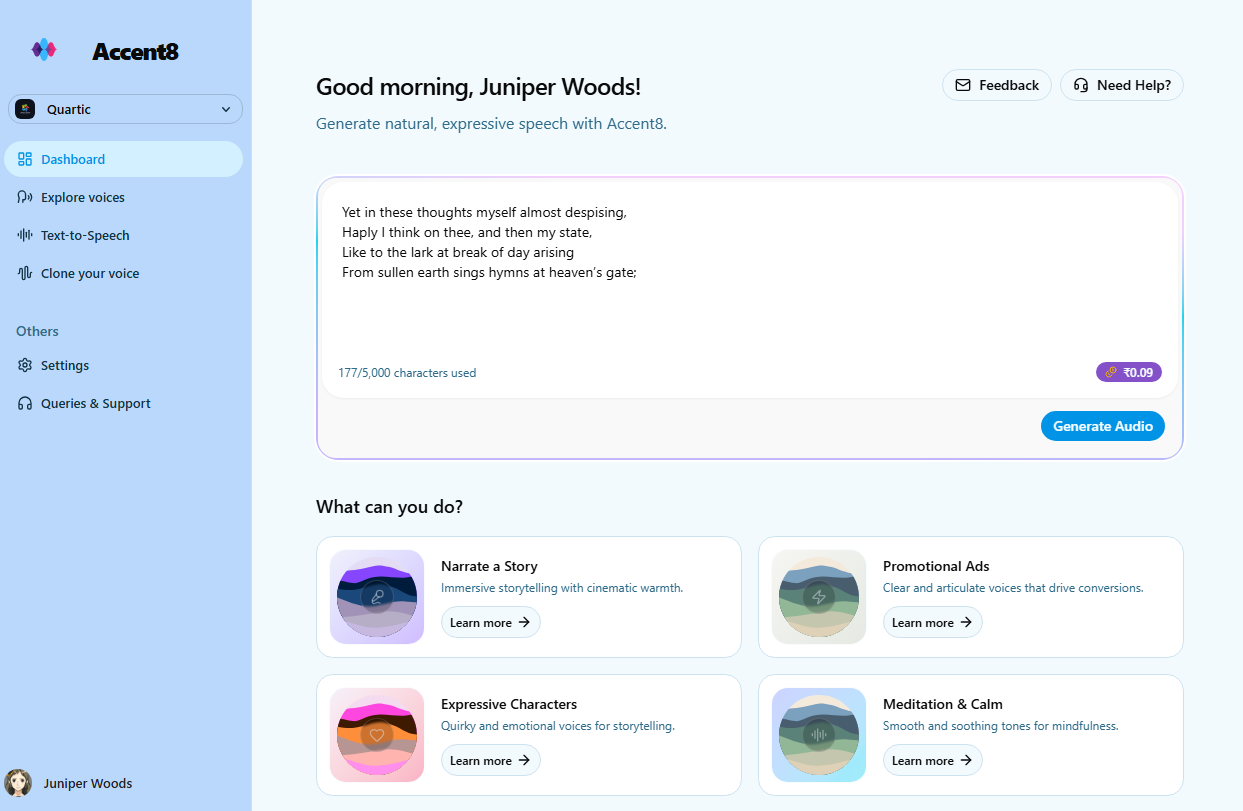
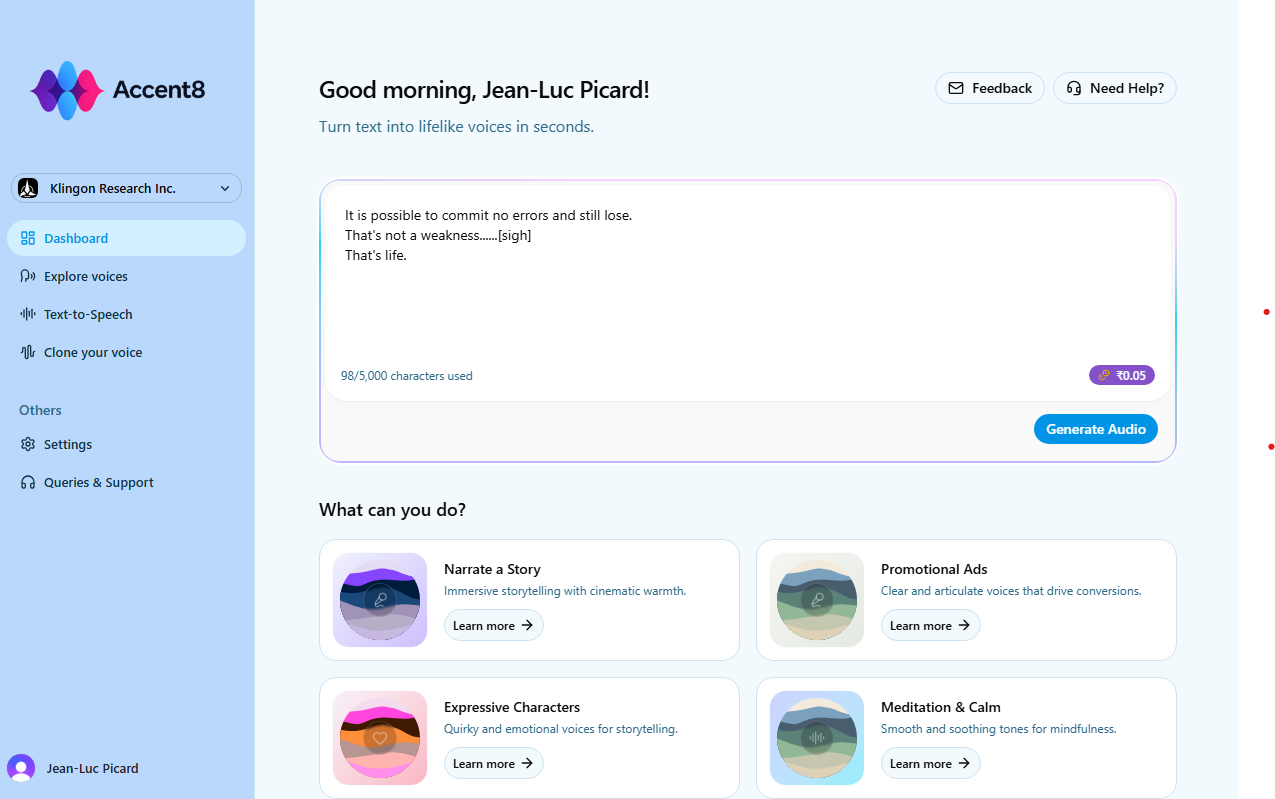
minor bugfixes-I

diff --git a/src/app/page.tsx b/src/app/page.tsx
@@ -1,9 +1,9 @@
 "use client";
 
-import { useRef } from "react";
+import { useRef, useState } from "react";
 import { motion, useMotionTemplate, useScroll, useTransform } from "framer-motion";
 import Link from "next/link";
-import { ArrowRight, Sparkles, MapPin, Check, X, AudioLines } from "lucide-react";
+import { ArrowRight, Sparkles, MapPin, Check, X, AudioLines, Menu, X as CloseIcon } from "lucide-react";
 import { Marquee } from "@/components/landing/marquee";
 import { BouncyCardsFeatures } from "@/components/landing/bouncy-cards-features";
 import { WavyBackground } from "@/components/landing/wavy-background";
@@ -12,30 +12,129 @@ import VoiceLab from "@/modules/landing-showcase/VoiceLab";
 import { MacbookScroll } from "@/components/ui/macbook-scroll";
 
 export default function LandingPage() {
+  const [isMenuOpen, setIsMenuOpen] = useState(false);
+
+  const closeMenu = () => setIsMenuOpen(false);
+
   return (
     <div className="min-h-screen bg-[#FAFAFA] text-slate-900 font-sans selection:bg-slate-200">
       {/* HEADER */}
       <header className="fixed top-0 left-0 right-0 z-50 bg-white/80 backdrop-blur-md border-b border-slate-200/80 shadow-sm transition-all">
         <div className="container mx-auto px-6 h-16 flex items-center justify-between">
-          <div className="flex items-center gap-3">
-            <div className="w-8 h-8 rounded-lg overflow-hidden border border-slate-200 bg-white shadow-sm">
-              <img
-                src="/Accent8-wbg.png"
-                alt="Accent8 logo"
-                className="h-full w-full object-contain"
-              />
-            </div>
-            <span className="font-bold text-xl tracking-tight">Accent8</span>
+          
+          {/* Left: Logo */}
+          <div className="flex items-center gap-3 flex-1">
+            <img
+              src="/logo/accent8-text-logo.png"
+              alt="Accent8 logo"
+              className="w-36 h-36 object-contain translate-y-px"
+            />
           </div>
-          <nav className="flex items-center gap-4 text-sm font-medium">
+
+          {/* Center: Navigation Links - Desktop Only */}
+          <nav className="hidden md:flex items-center justify-center gap-2 md:gap-8 text-sm font-medium">
+            <a href="#features" className="text-slate-600 hover:text-slate-900 transition-colors">
+              Features
+            </a>
+            <a href="#dashboard" className="text-slate-600 hover:text-slate-900 transition-colors">
+              Labs
+            </a>
+            <a href="#billing" className="text-slate-600 hover:text-slate-900 transition-colors">
+              Billing
+            </a>
+            <a href="#testimonials" className="text-slate-600 hover:text-slate-900 transition-colors">
+              Testimonials
+            </a>
+            <a href="#testimonials" className="text-slate-600 hover:text-slate-900 transition-colors">
+              Beta✦ 
+            </a>
+          </nav>
+
+          {/* Right: Auth Buttons - Desktop Only */}
+          <div className="hidden md:flex items-center justify-end gap-4 text-sm font-medium flex-1">
             <Link href="/sign-in" className="text-slate-600 hover:text-slate-900 transition-colors">
               Log in
             </Link>
             <Link href="/sign-up" className="px-4 py-2 bg-slate-900 text-white rounded-full hover:bg-slate-800 transition-colors">
               Sign up
             </Link>
-          </nav>
+          </div>
+
+          {/* Mobile Menu Button */}
+          <button
+            onClick={() => setIsMenuOpen(!isMenuOpen)}
+            className="md:hidden flex items-center justify-center w-10 h-10 rounded-lg hover:bg-slate-100 transition-colors"
+            aria-label="Toggle menu"
+          >
+            {isMenuOpen ? (
+              <CloseIcon className="w-6 h-6 text-slate-900" />
+            ) : (
+              <Menu className="w-6 h-6 text-slate-900" />
+            )}
+          </button>
         </div>
+
+        {/* Mobile Navigation Menu */}
+        <motion.div
+          initial={{ opacity: 0, height: 0 }}
+          animate={{ opacity: isMenuOpen ? 1 : 0, height: isMenuOpen ? "auto" : 0 }}
+          transition={{ duration: 0.3 }}
+          className="md:hidden overflow-hidden border-t border-slate-200/80"
+        >
+          <nav className="flex flex-col gap-4 px-6 py-4 bg-white/50 backdrop-blur-md">
+            <a
+              href="#features"
+              onClick={closeMenu}
+              className="text-slate-600 hover:text-slate-900 transition-colors py-2 font-medium"
+            >
+              Features
+            </a>
+            <a
+              href="#dashboard"
+              onClick={closeMenu}
+              className="text-slate-600 hover:text-slate-900 transition-colors py-2 font-medium"
+            >
+              Experimental
+            </a>
+            <a
+              href="#billing"
+              onClick={closeMenu}
+              className="text-slate-600 hover:text-slate-900 transition-colors py-2 font-medium"
+            >
+              Billing
+            </a>
+            <a
+              href="#testimonials"
+              onClick={closeMenu}
+              className="text-slate-600 hover:text-slate-900 transition-colors py-2 font-medium"
+            >
+              Testimonials
+            </a>
+            <a
+              href="#testimonials"
+              onClick={closeMenu}
+              className="text-slate-600 hover:text-slate-900 transition-colors py-2 font-medium"
+            >
+              Beta Access✦
+            </a>
+            <div className="border-t border-slate-200/80 pt-4 mt-2 flex flex-col gap-3">
+              <Link
+                href="/sign-in"
+                onClick={closeMenu}
+                className="text-slate-600 hover:text-slate-900 transition-colors py-2 font-medium"
+              >
+                Log in
+              </Link>
+              <Link
+                href="/sign-up"
+                onClick={closeMenu}
+                className="px-4 py-2 bg-slate-900 text-white rounded-full hover:bg-slate-800 transition-colors text-center font-medium"
+              >
+                Sign up
+              </Link>
+            </div>
+          </nav>
+        </motion.div>
       </header>
 
       <main className="pt-16 overflow-hidden">
@@ -109,7 +208,9 @@ export default function LandingPage() {
         </section>
 
         {/* 4. FEATURES BENTO */}
+        <div id="features" className="scroll-mt-24">
         <BouncyCardsFeatures />
+        </div>
 
         {/* 5. VOICE EXPERIMENTALS */}
           

diff --git a/src/components/ui/testimonial-v2.tsx b/src/components/ui/testimonial-v2.tsx
@@ -1,8 +1,7 @@
 "use client";
 
-import React, { useEffect, useState } from "react";
+import React from "react";
 import { motion } from "framer-motion";
-import { Moon, Sun } from "lucide-react";
 
 interface Testimonial {
   text: string;
@@ -112,10 +111,10 @@ function TestimonialsColumn(props: {
                     "0 25px 50px -12px rgba(0, 0, 0, 0.12), 0 10px 10px -5px rgba(0, 0, 0, 0.04), 0 0 0 1px rgba(0, 0, 0, 0.05)",
                   transition: { type: "spring", stiffness: 400, damping: 17 },
                 }}
-                className="group w-full max-w-xs cursor-default select-none rounded-3xl border border-neutral-200 bg-white p-10 shadow-lg shadow-black/5 transition-all duration-300 focus:ring-2 focus:ring-primary/30 focus:outline-none dark:border-neutral-800 dark:bg-neutral-900"
+                className="group w-full max-w-xs cursor-default select-none rounded-3xl border border-neutral-200 bg-white p-10 shadow-lg shadow-black/5 transition-all duration-300 focus:ring-2 focus:ring-primary/30 focus:outline-none"
               >
                 <blockquote className="m-0 p-0">
-                  <p className="m-0 leading-relaxed font-normal text-neutral-600 transition-colors duration-300 dark:text-neutral-400">
+                  <p className="m-0 leading-relaxed font-normal text-neutral-600 transition-colors duration-300">
                     {text}
                   </p>
                   <footer className="mt-6 flex items-center gap-3">
@@ -124,13 +123,13 @@ function TestimonialsColumn(props: {
                       height={40}
                       src={image}
                       alt={`Avatar of ${name}`}
-                      className="h-10 w-10 rounded-full object-cover ring-2 ring-neutral-100 transition-all duration-300 ease-in-out group-hover:ring-primary/30 dark:ring-neutral-800"
+                      className="h-10 w-10 rounded-full object-cover ring-2 ring-neutral-100 transition-all duration-300 ease-in-out group-hover:ring-primary/30"
                     />
                     <div className="flex flex-col">
-                      <cite className="not-italic leading-5 font-semibold tracking-tight text-neutral-900 transition-colors duration-300 dark:text-white">
+                      <cite className="not-italic leading-5 font-semibold tracking-tight text-neutral-900 transition-colors duration-300">
                         {name}
                       </cite>
-                      <span className="mt-0.5 text-sm leading-5 tracking-tight text-neutral-500 transition-colors duration-300 dark:text-neutral-500">
+                      <span className="mt-0.5 text-sm leading-5 tracking-tight text-neutral-500 transition-colors duration-300">
                         {role}
                       </span>
                     </div>
@@ -164,18 +163,18 @@ function TestimonialsSection() {
       >
         <div className="mx-auto mb-16 flex max-w-135 flex-col items-center justify-center">
           <div className="flex justify-center">
-            <div className="rounded-full border border-neutral-300 bg-neutral-100/50 px-4 py-1 text-xs font-semibold tracking-wide text-neutral-600 uppercase transition-colors dark:border-neutral-700 dark:bg-neutral-800/50 dark:text-neutral-400">
+            <div className="rounded-full border border-neutral-300 bg-neutral-100/50 px-4 py-1 text-xs font-semibold tracking-wide text-neutral-600 uppercase transition-colors">
               Testimonials
             </div>
           </div>
 
           <h2
             id="testimonials-heading"
-            className="mt-6 text-center text-4xl font-extrabold tracking-tight text-neutral-900 transition-colors md:text-5xl dark:text-white"
+            className="mt-6 text-center text-4xl font-extrabold tracking-tight text-neutral-900 transition-colors md:text-5xl"
           >
             What our users say
           </h2>
-          <p className="mt-5 max-w-sm text-center text-lg leading-relaxed text-neutral-500 transition-colors dark:text-neutral-400">
+          <p className="mt-5 max-w-sm text-center text-lg leading-relaxed text-neutral-500 transition-colors">
             Discover how thousands of teams streamline their operations with our platform.
           </p>
         </div>
@@ -195,26 +194,8 @@ function TestimonialsSection() {
 }
 
 export default function TestimonialV2() {
-  const [isDark, setIsDark] = useState(false);
-
-  useEffect(() => {
-    if (isDark) {
-      document.documentElement.classList.add("dark");
-    } else {
-      document.documentElement.classList.remove("dark");
-    }
-  }, [isDark]);
-
   return (
-    <div className="relative flex min-h-screen w-screen flex-col justify-center bg-white transition-colors duration-300 selection:bg-primary selection:text-white dark:bg-neutral-950">
-      <button
-        onClick={() => setIsDark(!isDark)}
-        className="fixed top-6 right-6 z-50 rounded-full border border-neutral-200 bg-white p-3 text-neutral-800 shadow-xl transition-all hover:scale-110 active:scale-95 focus:ring-2 focus:ring-primary/50 focus:outline-none dark:border-neutral-800 dark:bg-neutral-900 dark:text-neutral-100"
-        aria-label="Toggle Dark Mode"
-      >
-        {isDark ? <Sun size={20} /> : <Moon size={20} />}
-      </button>
-
+    <div className="relative flex min-h-screen w-screen flex-col justify-center bg-white transition-colors duration-300 selection:bg-primary selection:text-white">
       <TestimonialsSection />
     </div>
   );

diff --git a/src/modules/dashboard-feature/data/tips.ts b/src/modules/dashboard-feature/data/tips.ts
@@ -4,7 +4,13 @@ import gradientManim3 from "../../../../public/animations/gradientManim3.json";
 import gradientManim4 from "../../../../public/animations/gradientManim4.json";
 import gradientManim5 from "../../../../public/animations/gradientManim5.json";
 
-export type TipIcon = "mic2" | "languages" | "zap" | "audioLines" | "heart" | "sliders";
+export type TipIcon =
+  | "bookOpen"      
+  | "megaphone"     
+  | "heart"       
+  | "audioLines"      
+  | "languages"        
+  | "podcast";      
 
 export type VoiceOption = {
   id: string;
@@ -34,7 +40,7 @@ export const tips: Tip[] = [
   {
     title: "Narrate a Story",
     description: "Immersive storytelling with cinematic warmth.",
-    icon: "mic2",
+    icon: "bookOpen",
     gradient: "from-[#E4DBF4] to-[#8645FF]",
     text: "Once upon a time, in a quiet village, there lived a dreamer who believed in magic.",
     animationData: gradientManim3,
@@ -47,7 +53,7 @@ export const tips: Tip[] = [
   {
     title: "Promotional Ads",
     description: "Clear and articulate voices that drive conversions.",
-    icon: "zap",
+    icon: "megaphone",
     gradient: "from-[#F4EADB] to-[#C4C7AD]",
     text: "Introducing Gamut AI — fast, natural, and starting at just ₹1/min.",
     animationData: gradientManim,
@@ -100,7 +106,7 @@ export const tips: Tip[] = [
   {
     title: "Documentary & Podcast",
     description: "Host-ready versatile voices for your next big episode.",
-    icon: "sliders",
+    icon: "podcast",
     gradient: "from-blue-500 to-indigo-600",
     text: "Welcome back to the show. Today, we're diving deep into the future of AI.",
     animationData: gradientManim5,

diff --git a/src/modules/dashboard-feature/components/dashboard-sidebar.tsx b/src/modules/dashboard-feature/components/dashboard-sidebar.tsx
@@ -135,19 +135,20 @@ export function DashboardSidebar() {
 
   return (
     <Sidebar collapsible="icon" className="flex flex-col h-full">
-        <SidebarHeader className="flex flex-col gap-4 pt-6 pl-3 group-data-[collapsible=icon]:items-center group-data-[collapsible=icon]:pl-0">
-            <Link href="/dashboard" className="flex items-center gap-3 transition-opacity hover:opacity-80">
-                <Image 
-                src="/Accent8-wbg.png" 
-                alt="Accent8"  
-                width={72} 
-                height={72} 
-                className="rounded-md object-contain"
-                />
-                <span className="group-data-[collapsible=icon]:hidden font-extrabold text-2xl tracking-tighter text-foreground whitespace-nowrap">
-                Accent8
-                </span>
-            </Link>
+      <SidebarHeader className="flex flex-col gap-4 pt-6 px-3 items-center">
+        <Link 
+          href="/dashboard" 
+          className="flex justify-center w-full transition-opacity hover:opacity-80
+                    group-data-[collapsible=icon]:w-auto"
+        >
+          <Image 
+            src="/logo/accent8-text-logo.png" 
+            alt="Accent8"  
+            width={200} 
+            height={140} 
+            className="object-contain -translate-x-2.5 group-data-[collapsible=icon]:translate-x-0"
+          />
+        </Link>
             <SidebarMenu>
                 <SidebarMenuItem className="group-data-[collapsible=icon]:flex group-data-[collapsible=icon]:items-center group-data-[collapsible=icon]:justify-center">
                     <OrganizationSwitcher
